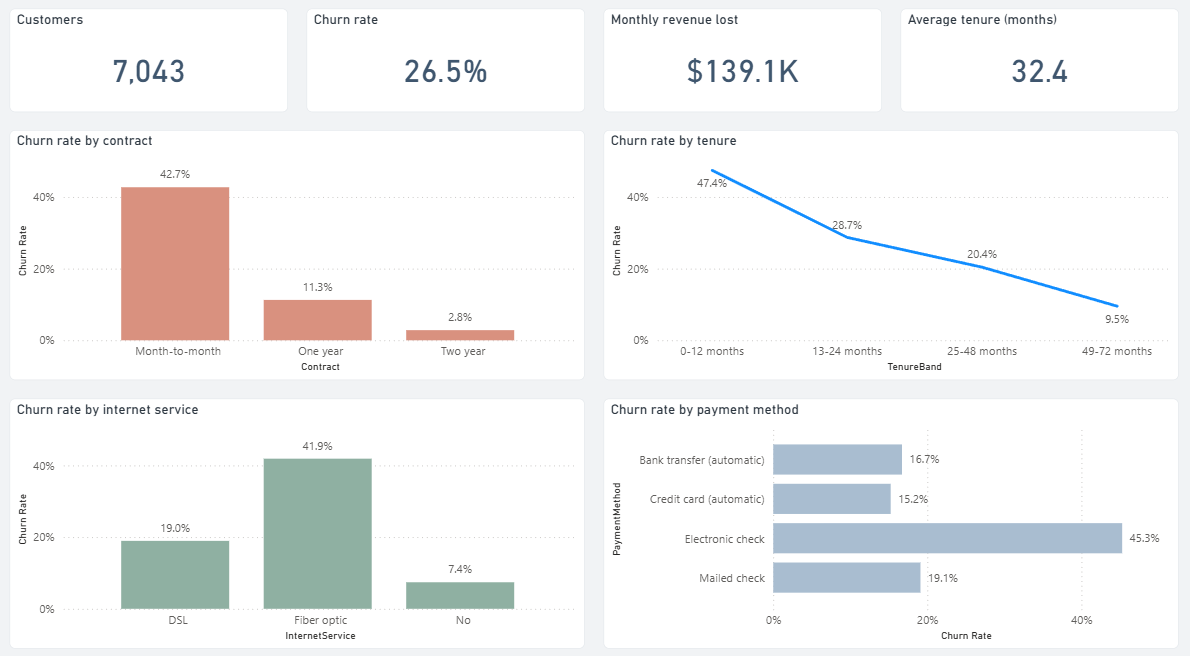
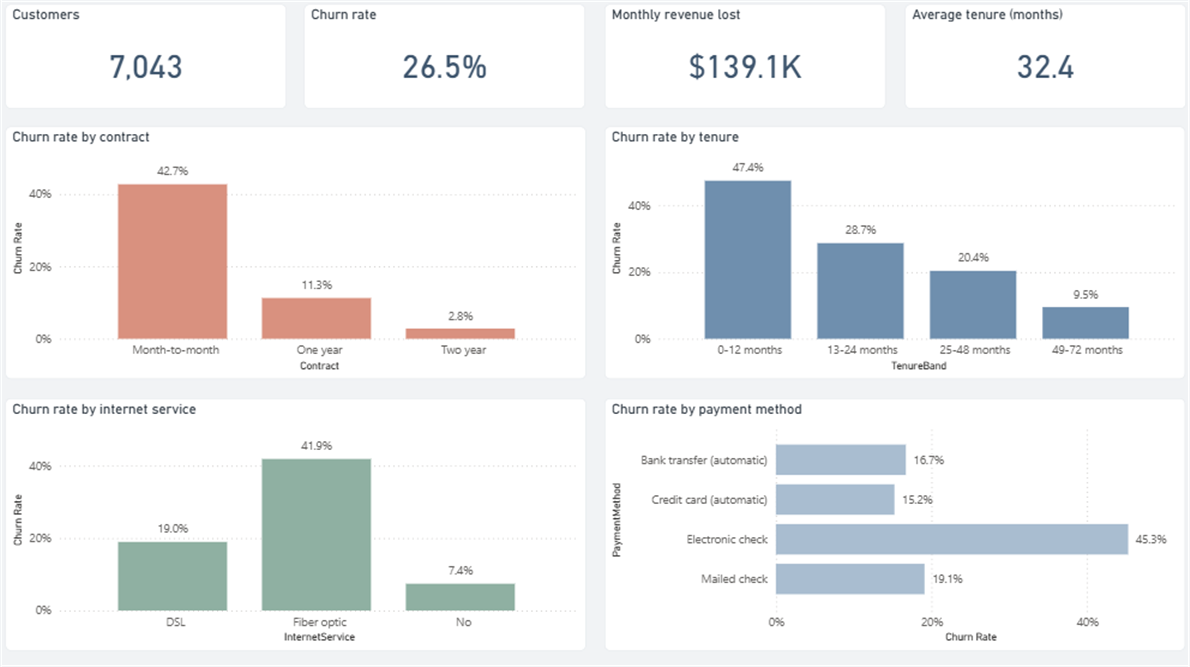
added column guide, two sql queries and some checks

diff --git a/analysis/churn_analysis.py b/analysis/churn_analysis.py
@@ -36,6 +36,9 @@ def load_clean() -> pd.DataFrame:
     df["TotalCharges"] = df["TotalCharges"].fillna(0)  # all the blanks are tenure-0 customers
     assert df["customerID"].is_unique
     print(f"Rows: {len(df):,} | blank TotalCharges fixed: {blanks}")
+    # quick checks so I notice if the data file changes
+    assert len(df) == 7043, "expected 7,043 customers"
+    assert blanks == 11, "expected 11 blank TotalCharges"
     df["ChurnFlag"] = (df["Churn"] == "Yes").astype(int)
     df["TenureBand"] = pd.cut(df["tenure"], [-1, 12, 24, 48, 72],
                               labels=["0-12 months", "13-24 months", "25-48 months", "49-72 months"])

diff --git a/README.md b/README.md
@@ -2,6 +2,15 @@
 
 I looked at 7,043 customers from the public IBM Telco Customer Churn dataset to see who is leaving, why, and who a retention team should call first. I used SQL, Python and Power BI.
 
+I wrote it with a retention team lead in mind, someone who needs a short list of customers to call each week and a rough idea of what that's worth.
+
+This dataset is used a lot, so here's what I added on top of the usual churn analysis:
+
+- I checked whether fibre customers churn more only because of their contracts. They don't.
+- I scored customers with the model but only used customers it had never seen for the risk bands, so the numbers aren't flattered.
+- I compared logistic regression with two other models before picking it.
+- I put a rough revenue number on keeping some of the customers who leave.
+
 ## What I found
 
 - 1,869 of 7,043 customers left (26.5%), about 1 in 4. They paid $139,131 a month, which is 30.5% of all monthly revenue.
@@ -39,7 +48,7 @@ Fibre isn't only down to contract type either. Fibre customers churn more than D
 
 ## The model
 
-I trained a Logistic Regression on 75% of customers and tested it on the other 1,761. I cared most about recall, because missing someone who is about to leave costs more than one extra phone call.
+I trained a Logistic Regression on 75% of customers and tested it on the other 1,761. I focused on recall because I figured a wasted call is cheaper than losing a customer. With real call costs I'd want to check that.
 
 | Measure | Result |
 |---|---|
@@ -56,23 +65,26 @@ I used the score to split customers into risk bands. Among the unseen customers,
 
 A fancier model didn't help. With 5-fold cross-validation, Logistic Regression scored an AUC of 0.845, Random Forest 0.844 and Gradient Boosting 0.847. I kept the simple one because I can explain it to a business team.
 
-The cut-off decides who gets a call. At 0.3 the model catches 93% of leavers but you'd call 57% of customers. At 0.6 you call 34% but miss more.
+The cut-off decides who gets a call. At 0.3 the model catches 93% of leavers but you'd call 57% of customers. At 0.6 you call 34% but miss more. I used 0.30 and 0.60 for the bands and didn't try to tune them.
 
 ## What I'd do next
 
-Check in with new customers at 30, 90 and 180 days. Offer longer contracts to month-to-month customers, starting with the High-risk group. Move electronic-check payers to automatic payment, bundle online security and tech support for fibre customers, and look at fibre pricing and quality. Re-score customers every month.
+These are ideas from the data, I haven't tested any of them. Check in with new customers at 30, 90 and 180 days. Offer longer contracts to month-to-month customers, starting with the High-risk group. Move electronic-check payers to automatic payment, bundle online security and tech support for fibre customers, and look at fibre pricing and quality. Re-score customers every month.
 
-## Things to keep in mind
+## Limits
 
-This is public data for a made-up company, and it's a single snapshot. The data shows what goes together with churn, not what causes it, so I'd test any idea on a small group first. The $167K figure is revenue, not profit. It ignores campaign cost and assumes saved customers stay a full year. I didn't tune the models much, though all three scored about the same.
+- It's public data for a made-up company, and it's one snapshot in time.
+- It shows what goes together with churn, not what causes it.
+- The $167K is revenue, not profit, and ignores what a campaign costs.
+- I didn't tune the models much, though all three scored about the same.
 
 ## What's in this repository
 
 - [`notebooks/churn_analysis.ipynb`](notebooks/churn_analysis.ipynb) has the full analysis with charts.
-- [`sql/churn_analysis_queries.sql`](sql/churn_analysis_queries.sql) has 10 SQL queries (grouping, CASE, CTE, window function) with the results I expect.
+- [`sql/churn_analysis_queries.sql`](sql/churn_analysis_queries.sql) has 12 SQL queries (grouping, CASE, CTEs, window functions like NTILE and a running total) with the results I expect.
 - [`powerbi/`](powerbi/) has the Power BI project, the scored dataset, the colour theme and build notes.
 - [`analysis/churn_analysis.py`](analysis/churn_analysis.py) is a script that reproduces the main numbers and writes the Power BI dataset.
-- [`data/`](data/) has the source data (IBM Telco Customer Churn, 7,043 customers, 21 columns).
+- [`data/`](data/) has the source data (IBM Telco Customer Churn, 7,043 customers, 21 columns) and a short [column guide](data/README.md).
 - [`extras/web-app/`](extras/web-app/) is a small interactive version I built as an extra, with FastAPI and React.
 
 To run it:

diff --git a/data/README.md b/data/README.md
@@ -1,0 +1,24 @@
+# Data
+
+`telco_customer_churn.csv` is the IBM Telco Customer Churn dataset: 7,043 customers, one row each, 21 columns.
+
+The columns I used most:
+
+| Column | What it means |
+|---|---|
+| customerID | Customer id |
+| tenure | Months the customer has been with the company (0 to 72) |
+| Contract | Month-to-month, One year or Two year |
+| InternetService | DSL, Fiber optic or No |
+| PaymentMethod | Electronic check, Mailed check, Bank transfer (automatic), Credit card (automatic) |
+| OnlineSecurity, TechSupport | Yes, No, or No internet service |
+| MonthlyCharges | Monthly bill in dollars |
+| TotalCharges | Total billed so far. Stored as text, with 11 blanks for new customers |
+| SeniorCitizen | 1 if the customer is a senior citizen |
+| Churn | Yes if the customer left in the last month |
+
+The other columns are customer details (gender, Partner, Dependents) and the services they have (PhoneService, MultipleLines, OnlineBackup, DeviceProtection, StreamingTV, StreamingMovies, PaperlessBilling).
+
+Cleaning: I turned `TotalCharges` into a number and set the 11 blanks to 0, because all 11 customers had 0 months of tenure and hadn't been billed yet. There are no duplicate customer ids.
+
+`powerbi/churn_customers_powerbi.csv` has the same customers plus columns I added: `ChurnFlag` (1 or 0), `TenureBand`, `ChargeBand`, `RiskScore` (model probability), `RiskBand` (Low, Medium, High), `IsTestCustomer` (1 if the customer was in the test set), `RiskRank`, `RiskDecile` and `HighRiskSegment`.
